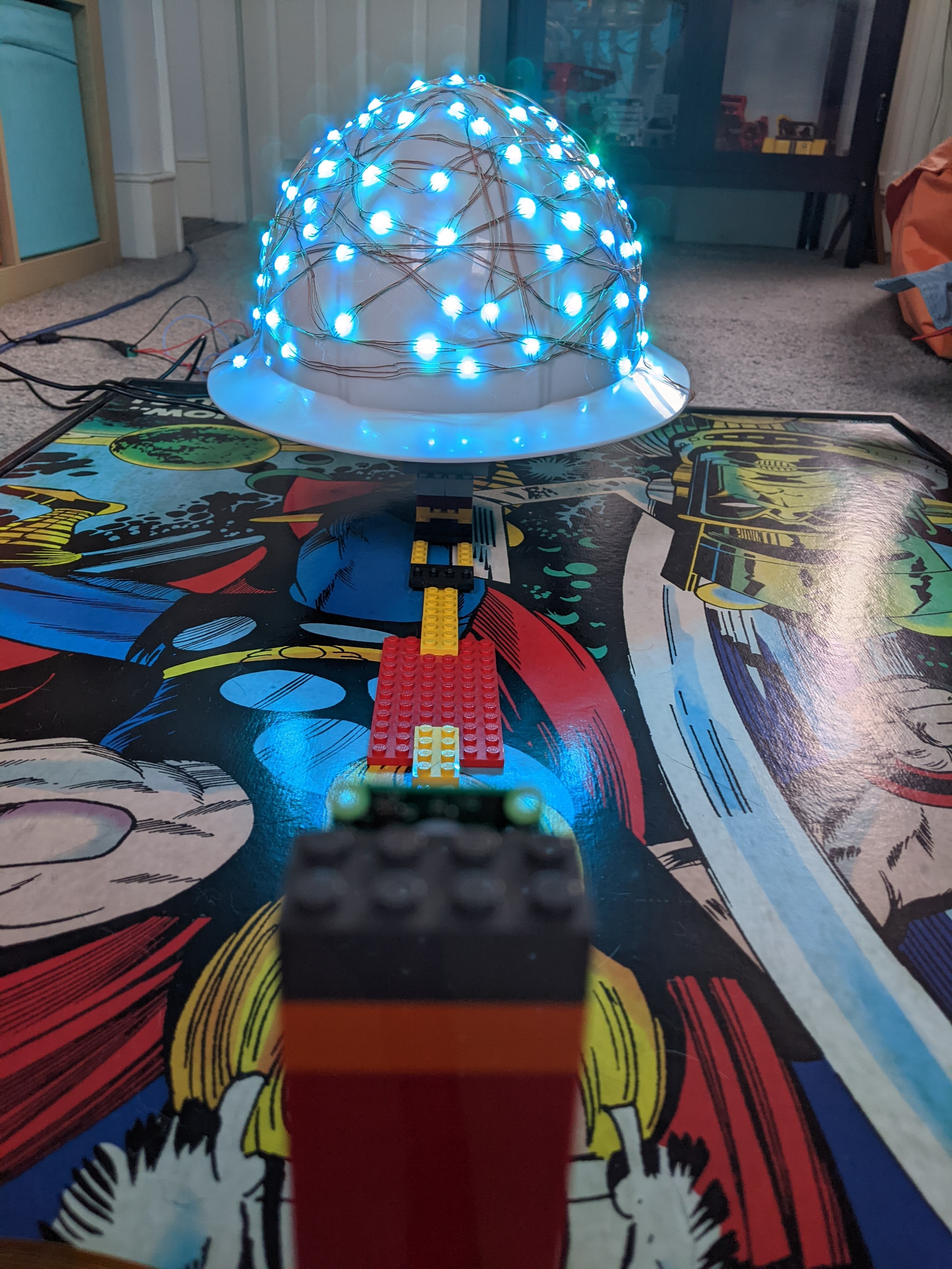
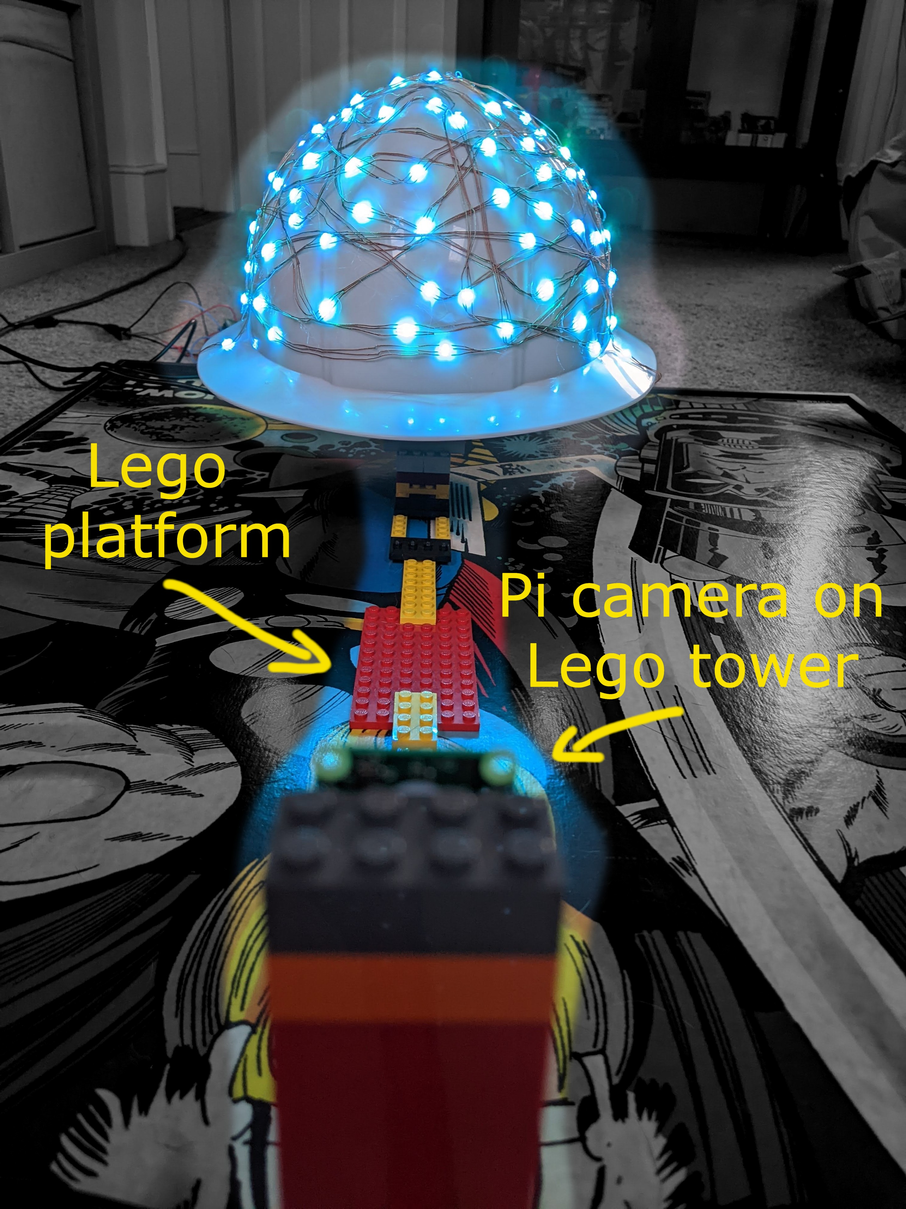
More slides

diff --git a/presentations/reveal.js/index.html b/presentations/reveal.js/index.html
@@ -21,13 +21,19 @@
 	<div class="reveal">
 		<div class="slides">
 			<section data-markdown="emf-2024/slides/intro.md"></section>
-			<section data-markdown="emf-2024/slides/title.md"></section>
+			<section>
+				<section data-markdown="emf-2024/slides/title.md"></section>
+				<section data-markdown="emf-2024/slides/matt-parker.md"></section>
+			</section>
 			<section data-markdown="emf-2024/slides/tools.md"></section>
 			<section>
 				<section data-markdown="emf-2024/slides/hat-photo.md"></section>
 				<section data-markdown="emf-2024/slides/controller-photo.md"></section>
 			</section>
-			<section data-markdown="emf-2024/slides/photography-0.md"></section>
+			<section>
+				<section data-markdown="emf-2024/slides/photography-0.md"></section>
+				<section data-markdown="emf-2024/slides/analysis-0.md"></section>
+			</section>
 		</div>
 	</div>
 

diff --git a/presentations/reveal.js/emf-2024/css/styles.css b/presentations/reveal.js/emf-2024/css/styles.css
@@ -1,5 +1,6 @@
 @import"https://fonts.googleapis.com/css2?family=Titan One";
 @import"https://fonts.googleapis.com/css2?family=Quicksand";
+@import"https://fonts.googleapis.com/css2?family=Kode Mono";
 
 :root {
     --pale-green: rgb(175, 201, 68);
@@ -17,6 +18,9 @@
 
     --r-heading-font: "Titan One";
     --r-main-font: "Quicksand";
+    --r-code-font: "Kode Mono";
+
+    --r-heading2-size: 3.5rem;
 }
 
 hr {
@@ -25,7 +29,11 @@ hr {
 
 img {
     border: 0.2rem solid var(--orange);
-    height: 60vh;
+    height: 50vh;
+}
+
+code, pre {
+    color: var(--pink)
 }
 
 .reveal {

diff --git a/presentations/reveal.js/emf-2024/slides/tools.md b/presentations/reveal.js/emf-2024/slides/tools.md
@@ -1,11 +1,16 @@
 ## Components
 
-- Hard-hat off eBay <!-- .element: class="fragment" data-fragment-index="1" -->
-- 2 strings of ws2812b NeoPixels <!-- .element: class="fragment" data-fragment-index="2" -->
-- Raspberry Pi Zero 2 <!-- .element: class="fragment" data-fragment-index="3" -->
-    - With a button-shim <!-- .element: class="fragment" data-fragment-index="4" -->
-- USB microphone <!-- .element: class="fragment" data-fragment-index="5" -->
-  - And a USB-on-the-go adapter <!-- .element: class="fragment" data-fragment-index="6" -->
-- A power bank <!-- .element: class="fragment" data-fragment-index="7" -->
-- Wire <!-- .element: class="fragment" data-fragment-index="8" -->
-- Hot glue <!-- .element: class="fragment" data-fragment-index="9" -->
+- Hard-hat off eBay
+- 2 strings of ws2812b NeoPixels
+- Raspberry Pi Zero 2
+    - With a button-shim
+    - And an Oled display
+- USB microphone
+  - And a USB-on-the-go adapter
+- A power bank
+- Wire
+- Hot glue
+
+Notes:
+
+It's all made with a load of stuff you can mostly buy off eBay

diff --git a/presentations/reveal.js/emf-2024/slides/photography-0.md b/presentations/reveal.js/emf-2024/slides/photography-0.md
@@ -4,4 +4,6 @@
 
 Notes:
 
-EDIT AND ANNOTATE THIS PHOTO!
+So this is where the interesting stuff starts: first you need some method of mounting the hat and the camera a fixed distance apart and square-on to each other. Did I use Lego? Of course I used Lego.
+
+Once you've got everything securely mounted, in a reasonably dark room, you just run a script that lights the pixels, one at a time, and takes a photo. Once you've got your 100 photos from the front, you turn the hat through 90 degrees, and take 100 more photos. And then again, and again, for all four sides.

diff --git a/presentations/reveal.js/emf-2024/slides/hat-photo.md b/presentations/reveal.js/emf-2024/slides/hat-photo.md
@@ -1,1 +1,5 @@
-![photo of hat](https://placebear.com/400/300)
+![photo of hat](emf-2024/assets/hat-0.jpg)
+
+Notes:
+
+I hot-glued the lights to the hat, turning in a random(ish) direction after I'd glued-down each one, attempting to move towards empty space each time. I also managed to stick 2 or 3 of them on backwards because I'm an idiot

diff --git a/presentations/reveal.js/emf-2024/slides/title.md b/presentations/reveal.js/emf-2024/slides/title.md
@@ -1,1 +1,5 @@
 ### I glued 100 WS2812 NeoPixels to a hat then mapped them in 3D space
+
+Notes:
+
+my name is Sam. I made this hat for EMF 2022 and I found myself answering so many questions about how it works that I started writing this lightning talk in my head. So now I finally get to deliver it

diff --git a/presentations/reveal.js/emf-2024/slides/controller-photo.md b/presentations/reveal.js/emf-2024/slides/controller-photo.md
@@ -1,1 +1,5 @@
-![photo of hat](https://placebear.com/400/250)
+![photo of hat](emf-2024/assets/controller.jpg)
+
+Notes:
+
+I cable-tied the Pi to the power-bank and wired everything up, producing this device, which you absolutely would not want to try to take through an airport

diff --git a/presentations/reveal.js/emf-2024/slides/matt-parker.md b/presentations/reveal.js/emf-2024/slides/matt-parker.md
@@ -1,0 +1,7 @@
+## Matt Parker's Christmas tree
+
+![photo of hat](/emf-2024/assets/matt-parker.jpg)
+
+Notes:
+
+All of this was heavily inspired by Matt Parker's Christmas tree, where he draped 500 NeoPixels over his tree and then located them in 3D space

diff --git a/presentations/reveal.js/emf-2024/slides/analysis-0.md b/presentations/reveal.js/emf-2024/slides/analysis-0.md
@@ -1,0 +1,7 @@
+## Analysing the photos
+
+`{ "x": 623, "y": 260 }` <!-- .element: class="fragment" data-fragment-index="1" -->
+
+Notes:
+
+Now we run the photos through OpenCV

diff --git a/presentations/reveal.js/emf-2024/slides/intro.md b/presentations/reveal.js/emf-2024/slides/intro.md
@@ -4,6 +4,6 @@
 
 https://sam.pikesley.org
 
-Note:
+Notes:
 
-This is some notes
+Hello
